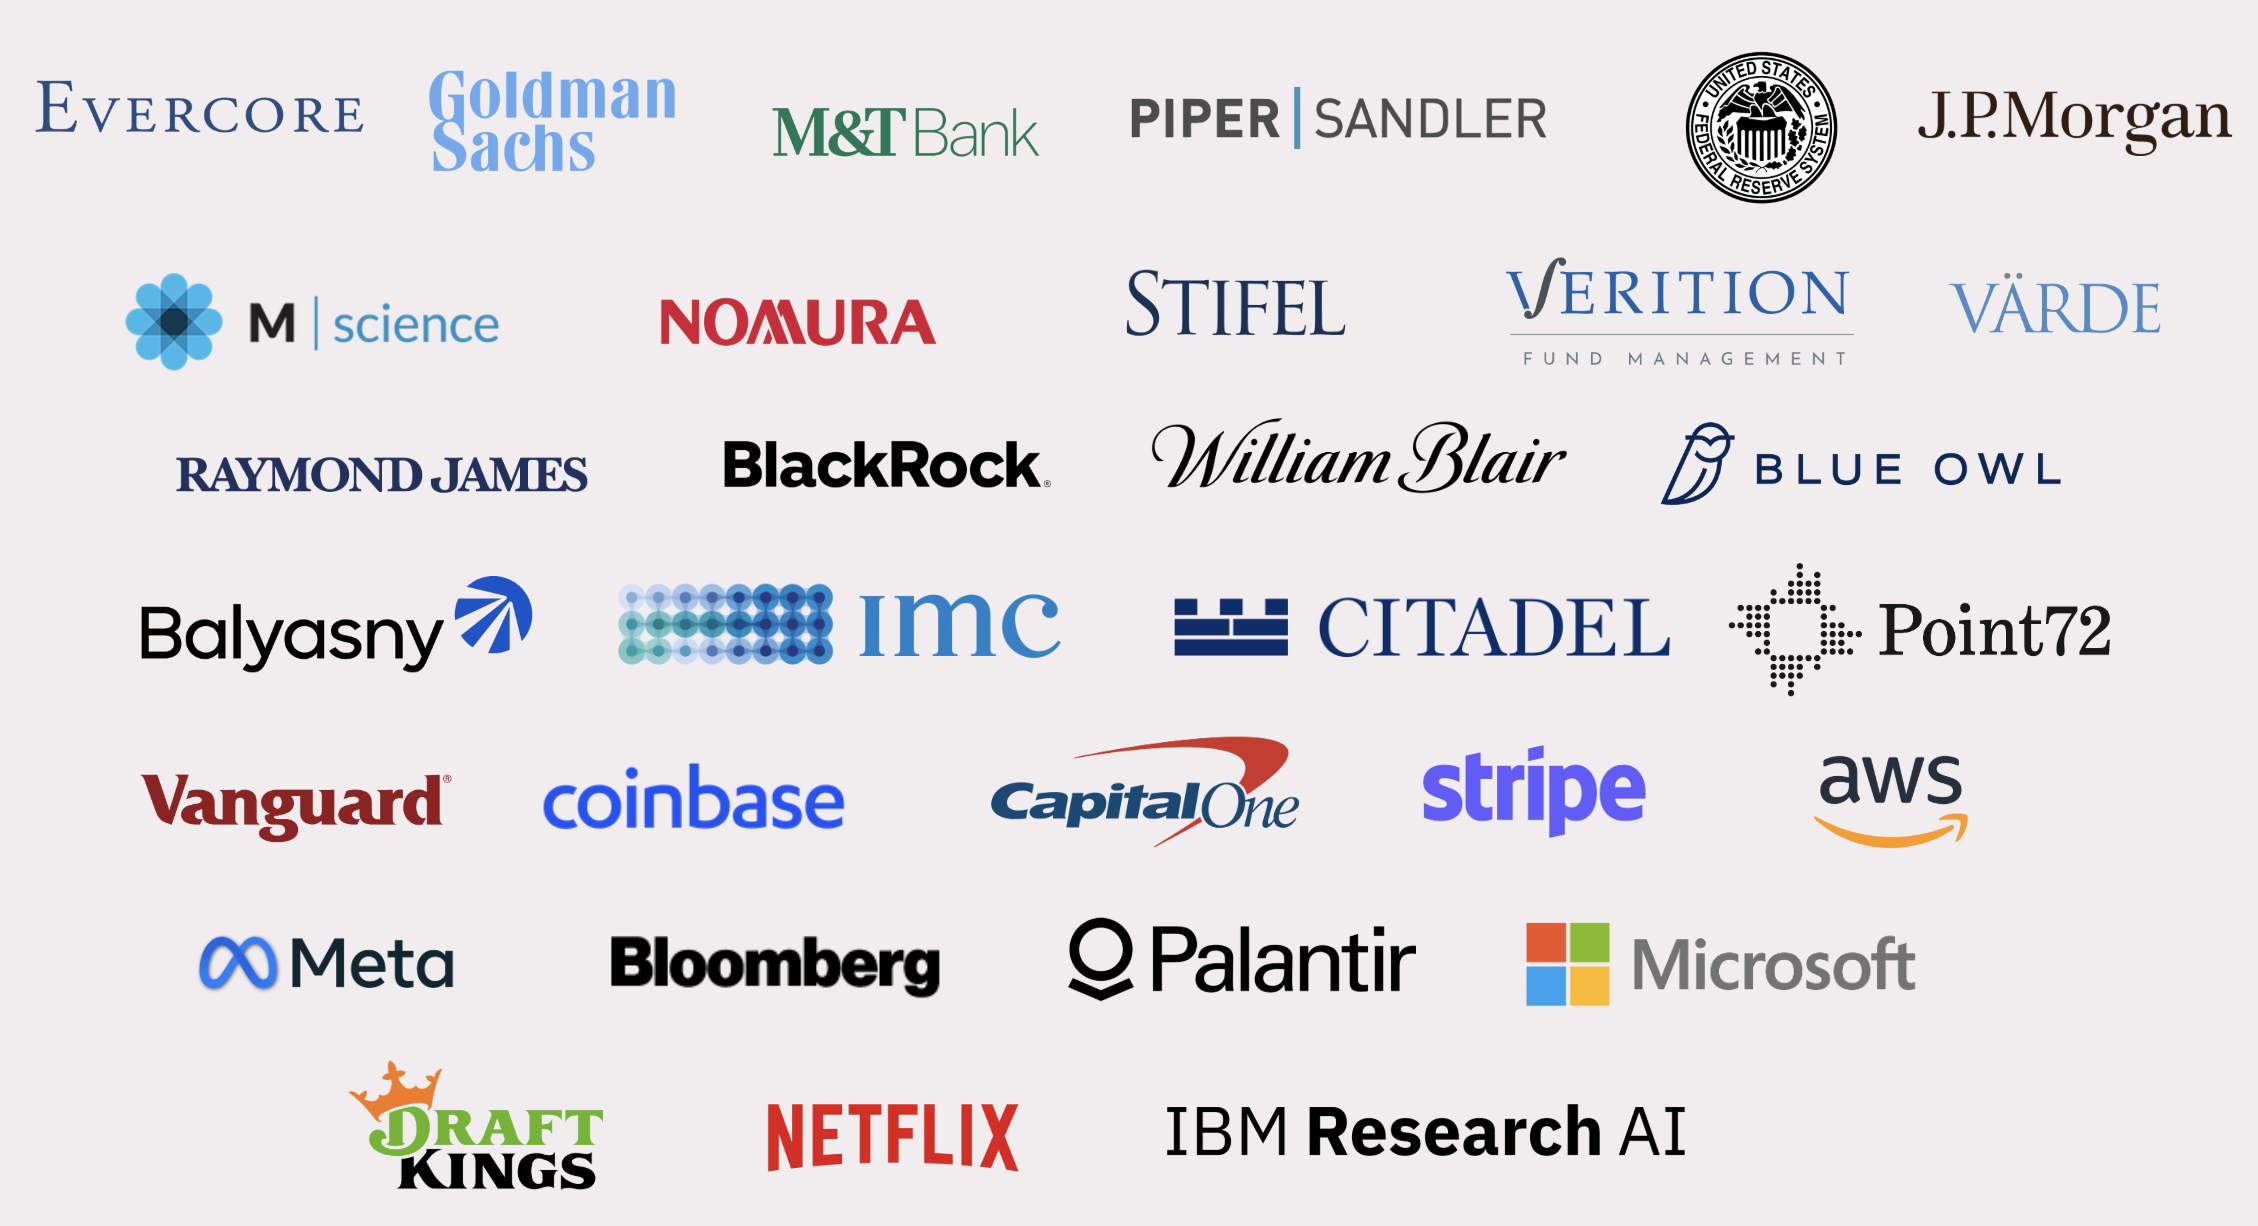
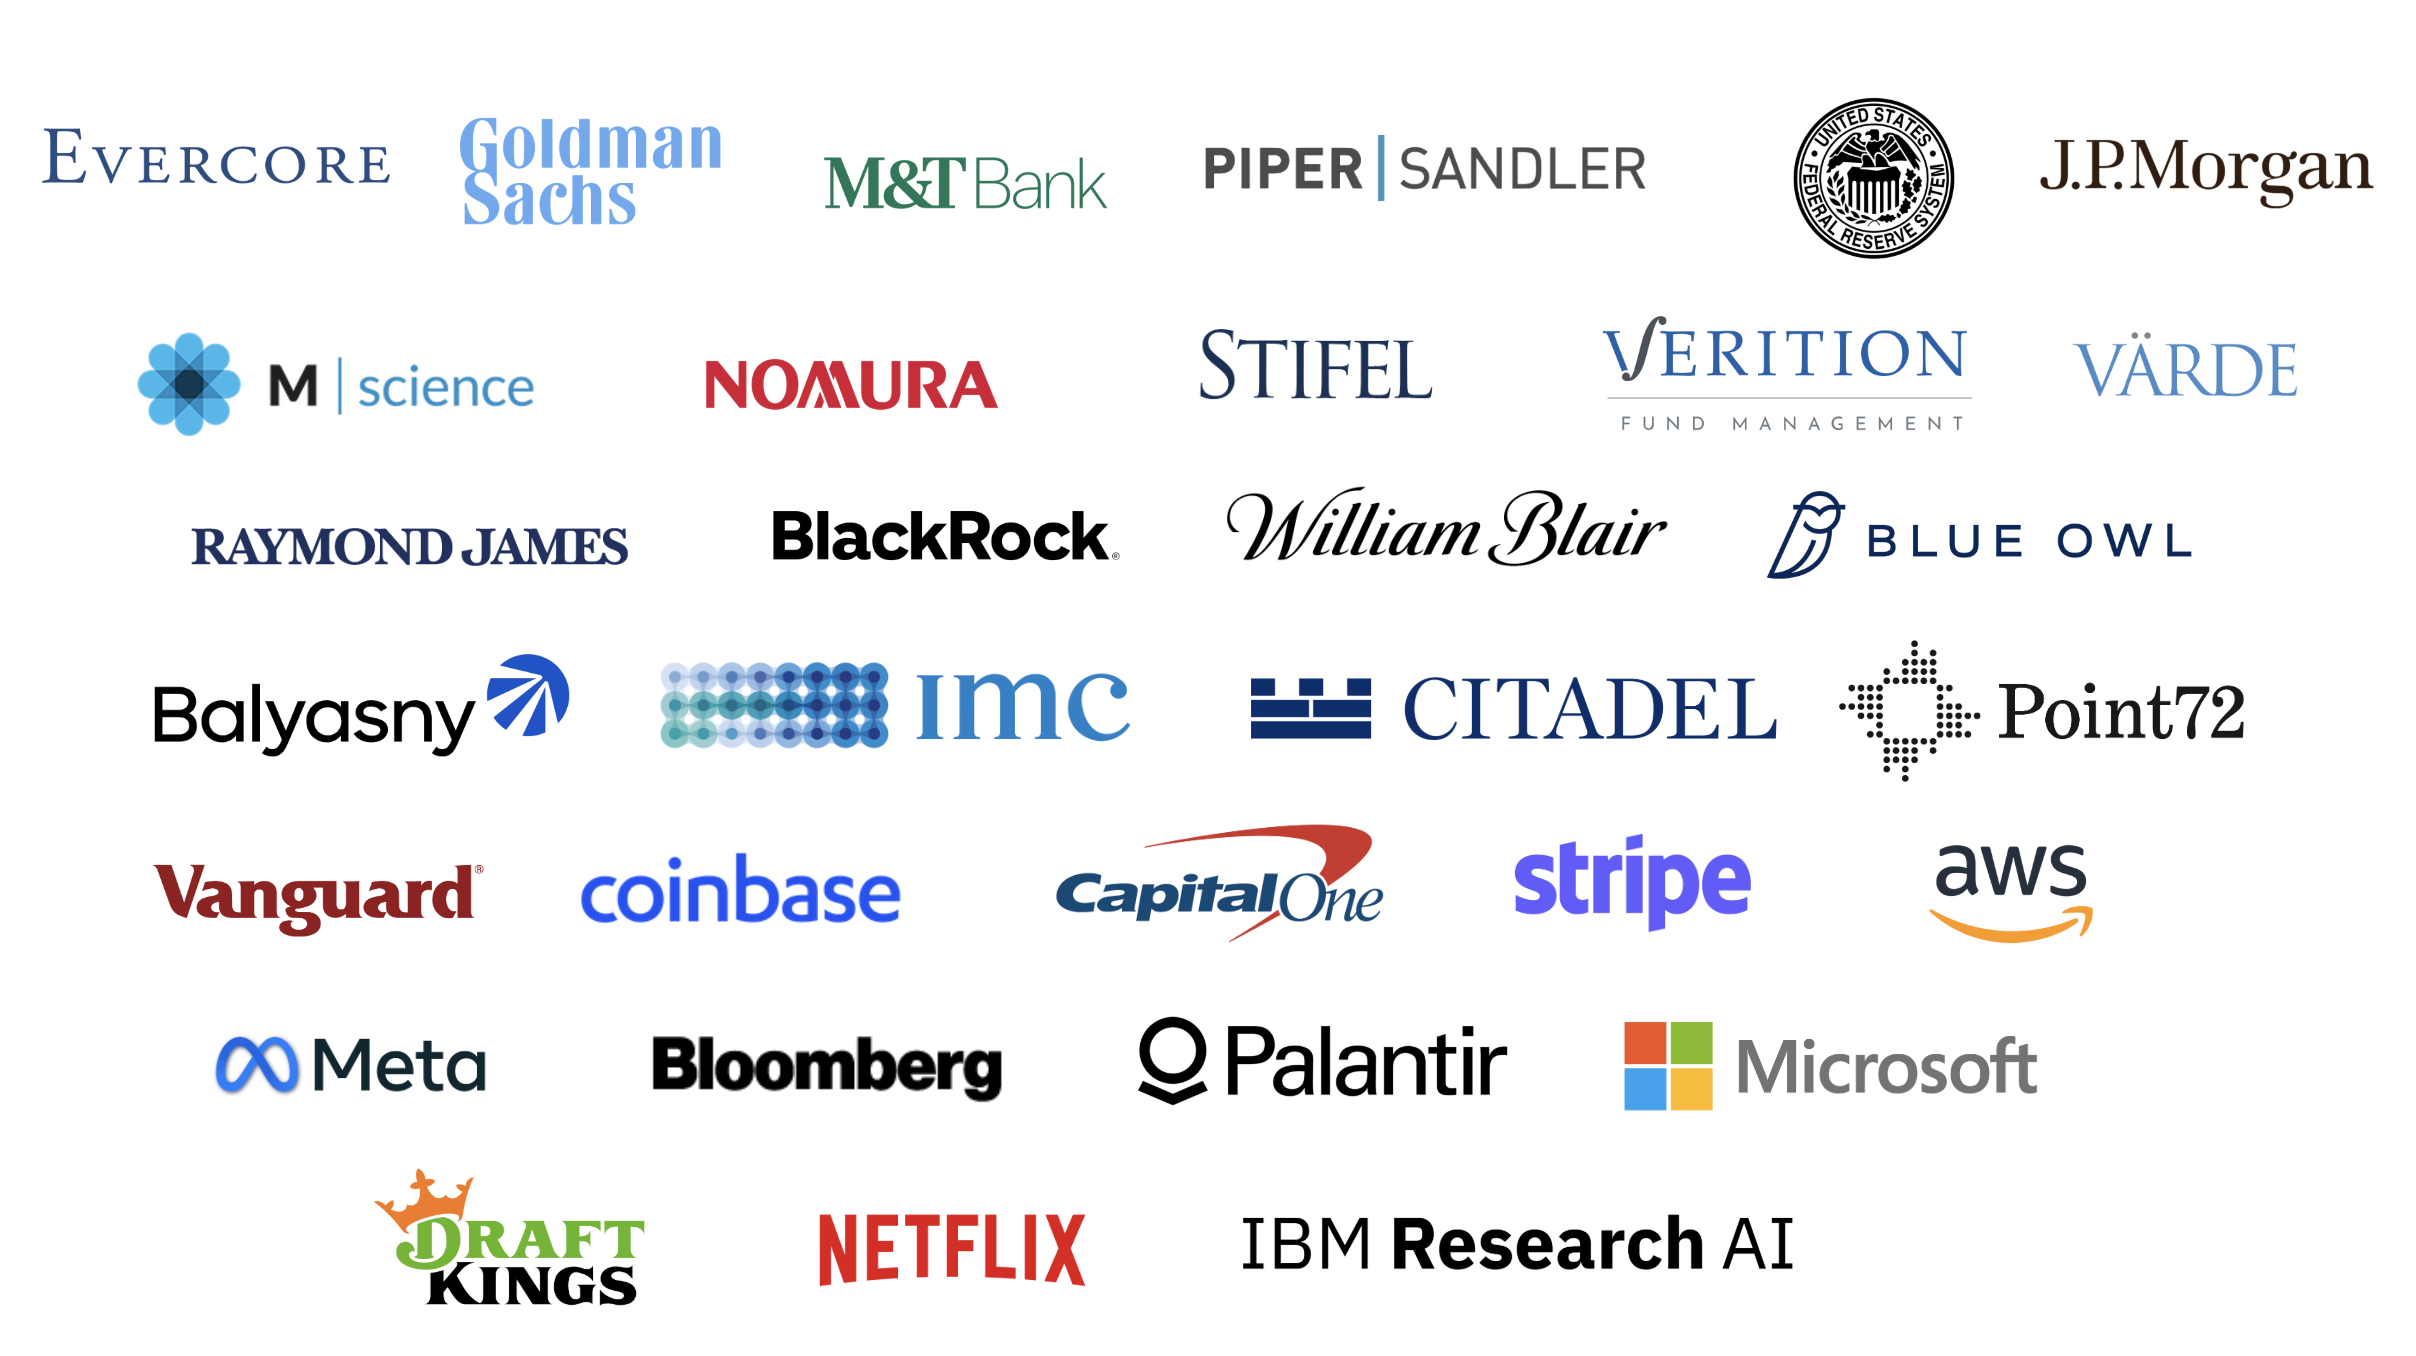
fix: changed placements and sponsors integration for website revamp

diff --git a/src/pages/landing.tsx b/src/pages/landing.tsx
@@ -335,7 +335,9 @@ const Landing = () => {
             <p style={{ fontSize: 16, color: 'rgba(220,240,250,0.65)', lineHeight: 1.7, maxWidth: 500, margin: '0 0 48px 0' }}>
               Our members have secured positions at top firms in the industry, a testament to the skills gained through Apex.
             </p>
-            <img src={PlacementsImg} alt="Company logos of member placements" style={{ display: 'block', width: '100%', height: 'auto', opacity: 0.85 }} />
+            <div style={{ borderRadius: 16, padding: 32, background: 'rgba(220,240,250,0.04)', boxShadow: '0 4px 24px rgba(0,0,0,0.3), inset 0 1px 0 rgba(220,240,250,0.08)', backdropFilter: 'blur(8px)' }}>
+              <img src={PlacementsImg} alt="Company logos of member placements" style={{ display: 'block', width: '100%', height: 'auto', opacity: 0.9, borderRadius: 8 }} />
+            </div>
           </div>
         </section>
 
@@ -351,7 +353,9 @@ const Landing = () => {
             <p style={{ fontSize: 16, color: 'rgba(220,240,250,0.65)', lineHeight: 1.7, maxWidth: 500, margin: '0 0 48px 0' }}>
               We're grateful to partner with organizations that support Apex and our members.
             </p>
-            <img src={SponsorshipsImg} alt="Sponsor logos" style={{ display: 'block', width: '100%', height: 'auto', opacity: 0.85 }} />
+            <div style={{ borderRadius: 16, padding: 32, background: 'rgba(220,240,250,0.04)', boxShadow: '0 4px 24px rgba(0,0,0,0.3), inset 0 1px 0 rgba(220,240,250,0.08)', backdropFilter: 'blur(8px)' }}>
+              <img src={SponsorshipsImg} alt="Sponsor logos" style={{ display: 'block', width: '100%', height: 'auto', opacity: 0.9, borderRadius: 8 }} />
+            </div>
           </div>
         </section>
 
